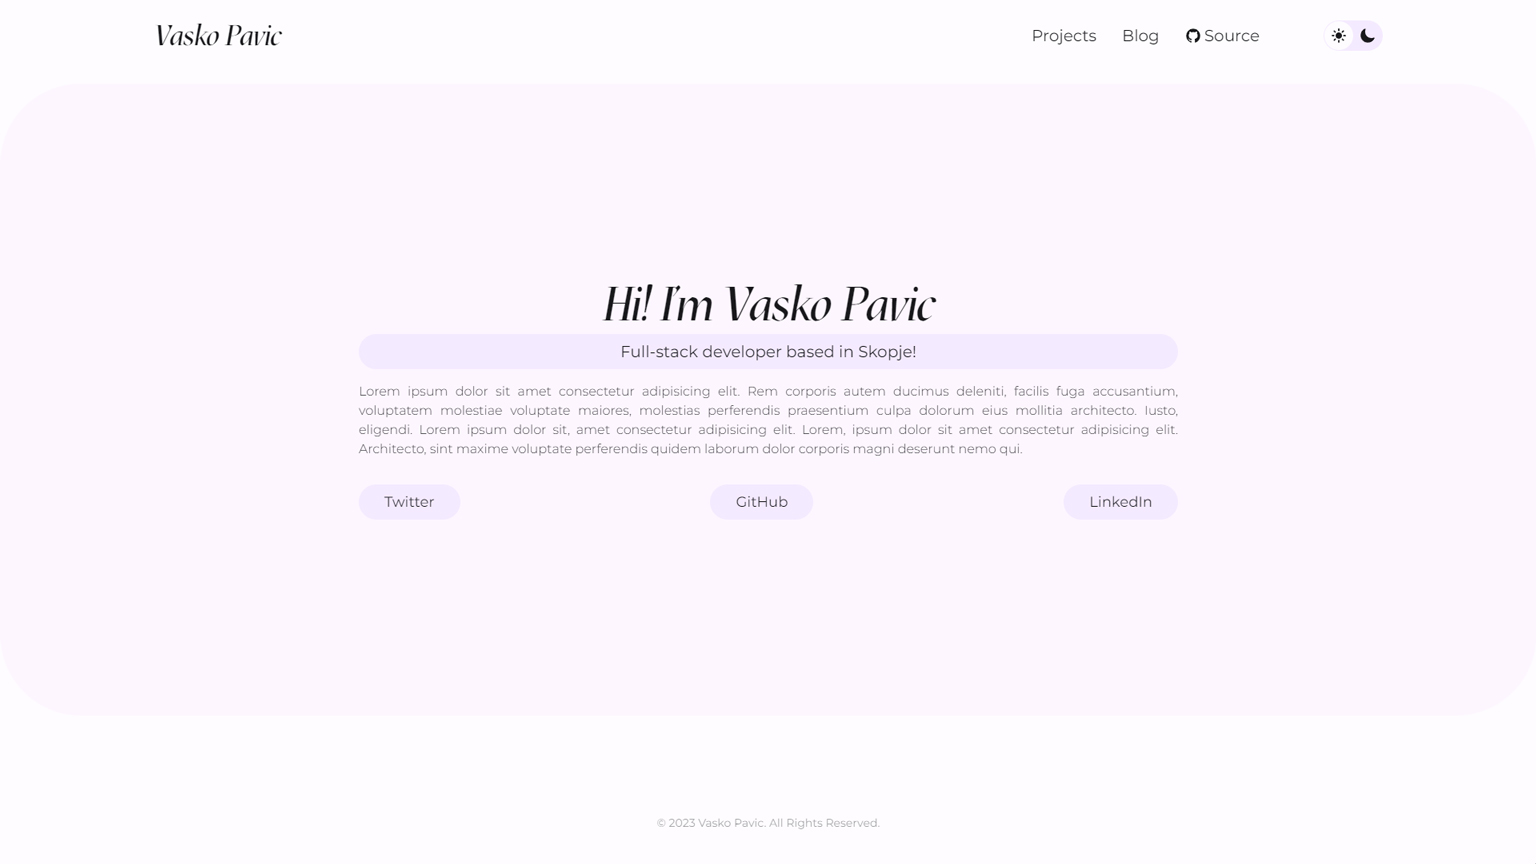
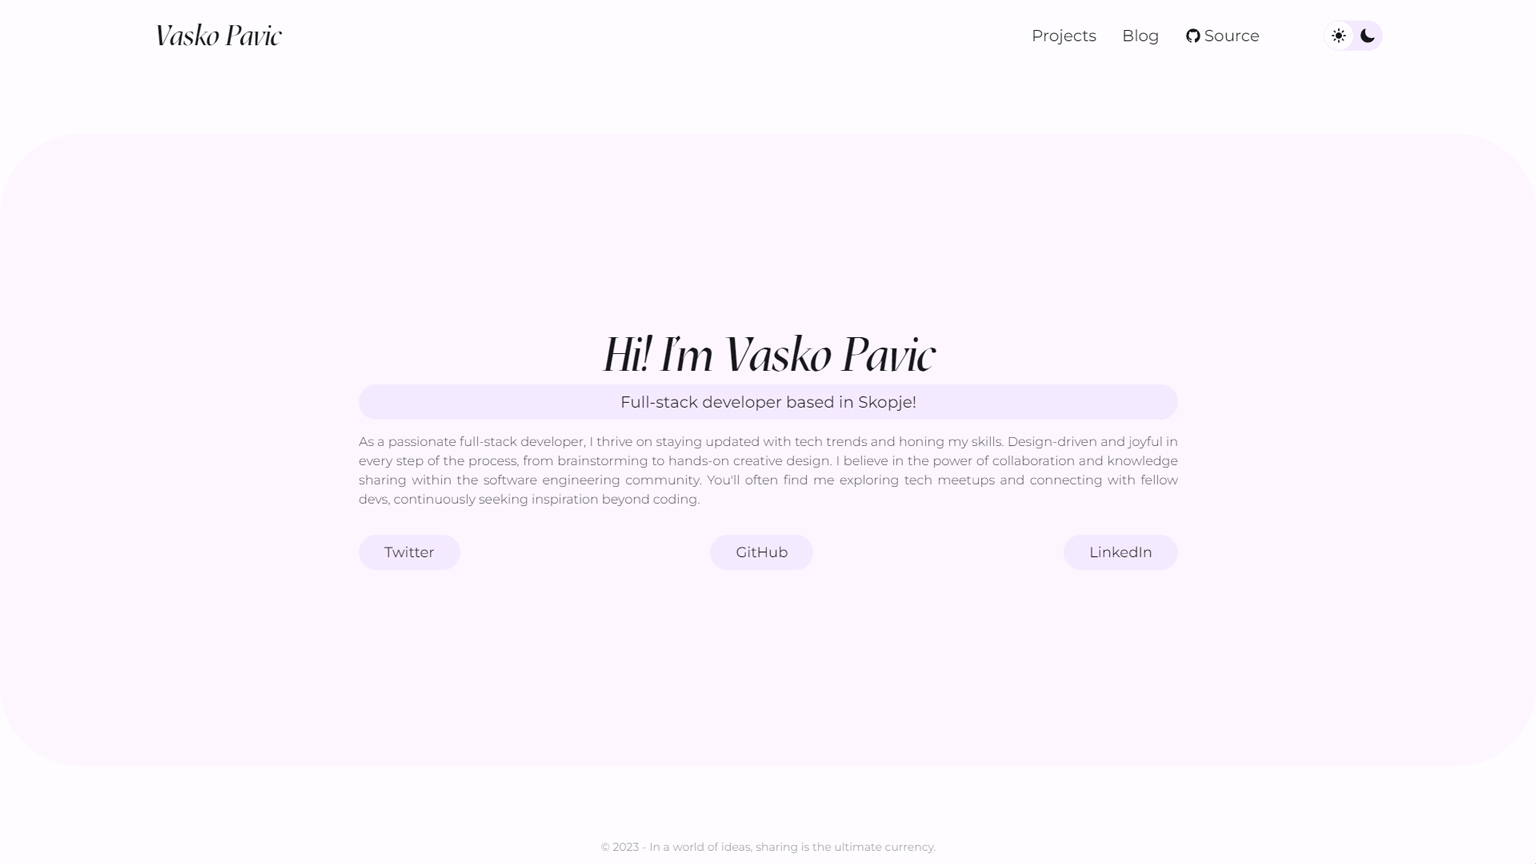
add text content and apply style/code fixes across the project

diff --git a/src/styles/global.css b/src/styles/global.css
@@ -8,7 +8,7 @@
     src: url("/fonts/Mazius-Review-Italic.woff2") format("woff2");
     font-weight: normal;
     font-style: italic;
-    font-display: swap;
+    font-display: fallback;
   }
 
   @font-face {
@@ -16,7 +16,7 @@
     src: url("/fonts/Montserrat-Light.woff2") format("woff2");
     font-weight: 300;
     font-style: normal;
-    font-display: swap;
+    font-display: fallback;
   }
 
   @font-face {
@@ -24,7 +24,7 @@
     src: url("/fonts/Montserrat-Regular.woff2") format("woff2");
     font-weight: 400;
     font-style: normal;
-    font-display: swap;
+    font-display: fallback;
   }
 
   h1,
@@ -36,7 +36,15 @@
     @apply font-heading;
   }
 
+  img {
+    content-visibility: auto;
+  }
+
   pre {
     @apply p-4 mb-6 rounded-xl border border-slate-300 dark:border-zinc-700;
+  }
+
+  pre > code {
+    @apply whitespace-pre-wrap;
   }
 }

diff --git a/src/pages/projects/jollybyte.md b/src/pages/projects/jollybyte.md
@@ -1,6 +1,6 @@
 ---
 title: Jollybyte
-description: Lorem ipsum dolor sit amet
+description: A fictitious fast-food chain, serving delicious meals with a side of happiness. This project is the result of our team's hard work and creativity during a 5-day ReactJS workshop.
 layout: "@/layouts/article.astro"
 thumbnail: /projects/jollybyte_thumbnail.jpg
 category: Projects
@@ -9,4 +9,10 @@ sourceUrl: "https://github.com/vaskopavic/jollybyte"
 createdAt: 1670799600
 ---
 
-Lorem ipsum dolor sit amet consectetur adipisicing elit. Rem corporis autem ducimus deleniti, facilis fuga accusantium, voluptatem molestiae voluptate maiores, molestias perferendis praesentium culpa dolorum eius mollitia architecto. Iusto, eligendi. Lorem ipsum dolor sit, amet consectetur adipisicing elit. Lorem, ipsum dolor sit amet consectetur adipisicing elit. Architecto, sint maxime voluptate perferendis quidem laborum dolor corporis magni deserunt nemo qui.
+Welcome to the Jollybyte project! As a developer, this was an exhilarating journey that pushed our skills to the limit. We embarked on this adventure during a 5-day ReactJS workshop, and let me tell you, it was a whirlwind of creativity, coding, and collaboration.
+
+Working alongside my talented teammates, [Natali Talevska](https://www.linkedin.com/in/natali-talevska/) (the designer extraordinaire) and [Marko Spasenovski](https://www.linkedin.com/in/marko-spasenovski/) (the brilliant developer), we set out to bring the fictitious fast-food chain, Jollybyte, to life on the web. The pressure was on, but we thrived on the challenge.
+
+Each day brought new challenges, but we tackled them head-on, leveraging our problem-solving skills and staying true to industry best practices. As we neared the end of the workshop, the adrenaline peaked, and we polished every pixel and line of code.
+
+In the end, our hard work paid off, and we proudly claimed the first-place win. It was a testament to our dedication, passion, and seamless teamwork.

diff --git a/src/pages/projects/personal-website.md b/src/pages/projects/personal-website.md
@@ -1,6 +1,6 @@
 ---
 title: Personal Website
-description: Lorem ipsum dolor sit amet
+description: This website is a reflection of my journey in the world of software development and a showcase of my projects, skills, and experiences.
 layout: "@/layouts/article.astro"
 thumbnail: /projects/personal-website_thumbnail.jpg
 category: Projects
@@ -8,4 +8,4 @@ sourceUrl: "https://github.com/vaskopavic/vaskopavic.com"
 createdAt: 1689202800
 ---
 
-Lorem ipsum dolor sit amet consectetur adipisicing elit. Rem corporis autem ducimus deleniti, facilis fuga accusantium, voluptatem molestiae voluptate maiores, molestias perferendis praesentium culpa dolorum eius mollitia architecto. Iusto, eligendi. Lorem ipsum dolor sit, amet consectetur adipisicing elit. Lorem, ipsum dolor sit amet consectetur adipisicing elit. Architecto, sint maxime voluptate perferendis quidem laborum dolor corporis magni deserunt nemo qui.
+As a developer, I believe in the power of simplicity and clean design. Therefore, this website is designed to be user-friendly and responsive across different devices. I've poured my heart and soul into creating this platform, and I hope it serves as an inspiration for others and a way to connect with like-minded individuals.

diff --git a/src/pages/blog/exploring-sessions-in-nestjs.md b/src/pages/blog/exploring-sessions-in-nestjs.md
@@ -4,12 +4,12 @@ description: Learn how to leverage sessions in NestJS using the 'express-session
 layout: "@/layouts/article.astro"
 thumbnail: /blog/nestjs_thumbnail.jpg
 category: Blog
-createdAt: 1678057200
+createdAt: 1690066800
 ---
 
 ## Introduction
 
-Sessions are crucial for dynamic and secure web applications, providing personalized experiences, data retention, and enhanced security. In this article, we'll explore the significance of sessions in web development and how to set them up in a NestJS project using the express-session package.
+In this article, we'll explore the significance of sessions in web development and how to set them up in a NestJS project using the express-session package.
 
 ## Why Sessions Matter
 
